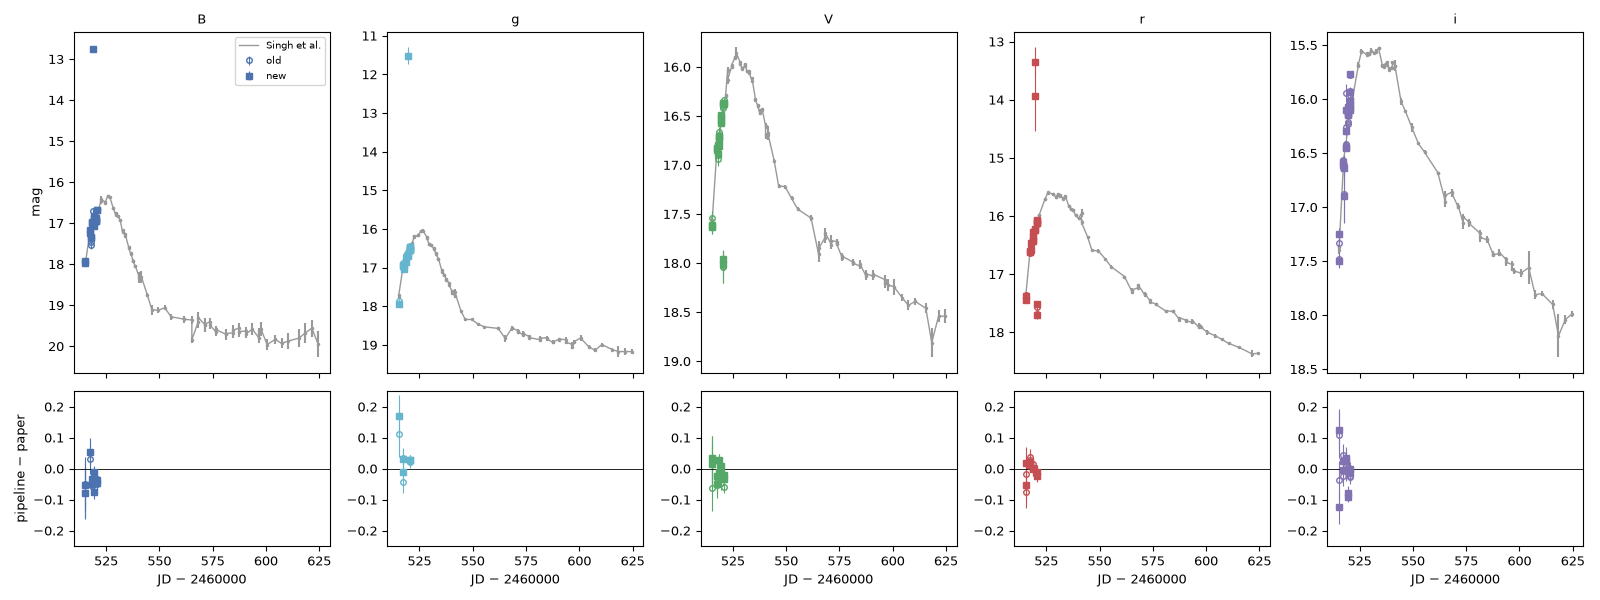
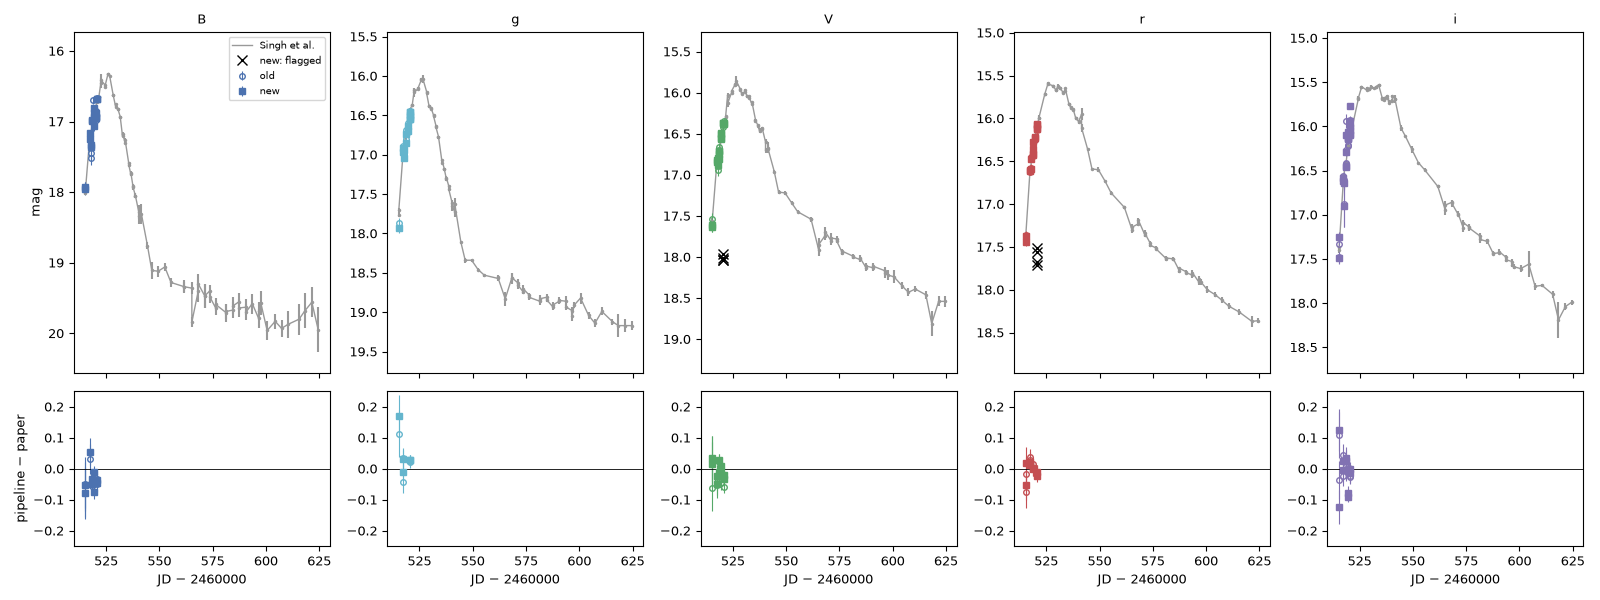
getmag: light-curve outlier flags (running median); flagged points marked in plots

diff --git a/src/snpipe/getmag.py b/src/snpipe/getmag.py
@@ -15,6 +15,25 @@ from . import db, sites
 COLS = {'mag': ('mag', 'dmag'), 'fit': ('psfmag', 'psfdmag'), 'ph': ('apmag', 'dapmag')}
 
 
+def flag_outliers(t, window=1.5, nsig=5., floor=0.1):
+    """Light-curve check (what a human does in getmag --show): flag a point that deviates from the median of the
+    other points of the same band within +-window days by more than max(nsig x their robust sigma, nsig x its
+    own error, floor). Returns 0/1 per row; flagged points stay in the table for review."""
+    flags = np.zeros(len(t), int)
+    for f in set(t['filter']):
+        idx = np.flatnonzero(np.asarray(t['filter']) == f)
+        jd, m, e = (np.asarray(t[c], float)[idx] for c in ('jd', 'mag', 'dmag'))
+        for k in range(len(idx)):
+            nb = (np.abs(jd - jd[k]) <= window) & (np.arange(len(idx)) != k)
+            if nb.sum() < 2:
+                continue
+            med = np.median(m[nb])
+            sig = 1.4826 * np.median(np.abs(m[nb] - med))
+            if abs(m[k] - med) > max(nsig * sig, nsig * e[k], floor):
+                flags[idx[k]] = 1
+    return flags
+
+
 def run(frames, mtype='mag', combine=1e-10, output=None, conn=None):
     mcol, ecol = COLS[mtype]
     rows = [db.get_frame(f, conn) for f in frames]
@@ -46,6 +65,7 @@ def run(frames, mtype='mag', combine=1e-10, output=None, conn=None):
                 i = j
         t = Table(rows=out, names=t.colnames)
     t.sort('jd')
+    t['flag'] = flag_outliers(t)
     t['jd'].format, t['mag'].format, t['dmag'].format = '%.5f', '%.4f', '%.4f'
     if output:
         t.write(output, format='csv', overwrite=True)

diff --git a/tools/visual_compare.py b/tools/visual_compare.py
@@ -19,6 +19,7 @@ from astropy.visualization import ZScaleInterval  # noqa: E402
 from astropy.wcs import WCS  # noqa: E402
 
 sys.path.insert(0, str(Path(__file__).parent))
+sys.path.insert(0, str(Path(__file__).parents[1] / 'src'))
 from compare import COLORS, FILT, paper_table  # noqa: E402
 
 plt.rcParams.update({'font.size': 9, 'axes.titlesize': 9})
@@ -228,6 +229,11 @@ def fig_lc(out, old, new, paper):
             if not pts:
                 continue
             p = np.array(pts)
+            from snpipe.getmag import flag_outliers
+            fl = flag_outliers(Table({'filter': [f] * len(p), 'jd': p[:, 0], 'mag': p[:, 1], 'dmag': p[:, 2]})).astype(bool)
+            if fl.any():
+                ax[0, k].plot(p[fl, 0] - 2460000, p[fl, 1], 'x', ms=7, color='k', label=f'{lab}: flagged' if k == 0 else None)
+            p = p[~fl]
             ax[0, k].errorbar(p[:, 0] - 2460000, p[:, 1], p[:, 2], fmt=mk, ms=4, color=COLORS[f], mfc=mfc or COLORS[f],
                               lw=0.8, label=lab)
             d = []
@@ -239,6 +245,9 @@ def fig_lc(out, old, new, paper):
                 d = np.array(d)
                 ax[1, k].errorbar(d[:, 0] - 2460000, d[:, 1], d[:, 2], fmt=mk, ms=4, color=COLORS[f], mfc=mfc or COLORS[f], lw=0.8)
         ax[0, k].invert_yaxis()
+        good = paper[paper['filter'] == f]['mag']
+        if len(good):
+            ax[0, k].set_ylim(max(good) + 0.6, min(good) - 0.6)
         ax[0, k].set_title(f)
         ax[1, k].axhline(0, color='k', lw=0.6)
         ax[1, k].set_ylim(-0.25, 0.25)
